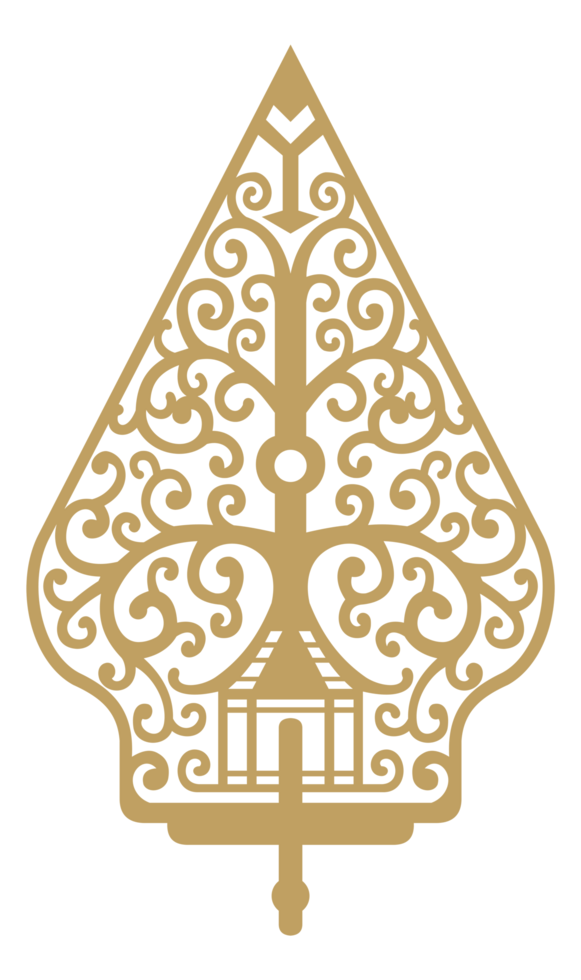
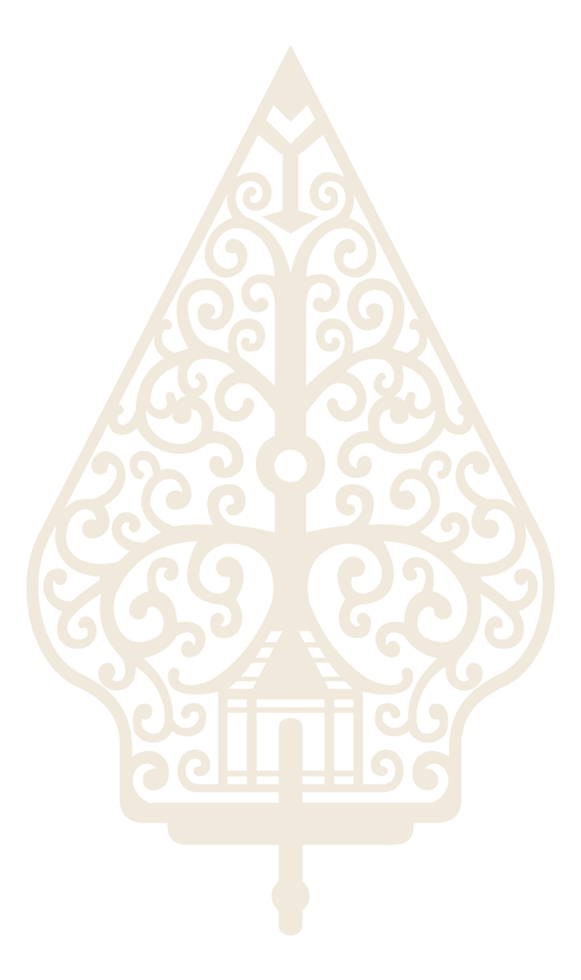
update tema 1 black

Changed region(s): [[0.031, 0.0306, 0.9604, 0.9796]]

diff --git a/src/components/Cover.vue b/src/components/Cover.vue
@@ -8,30 +8,30 @@ const openInvitation = () => {
 </script>
 <template>
   <v-container height="100dvh" class="relative p-0">
-    <div class="text-center h-full bg-[#ffead3]/70 p-5">
+    <div class="text-center h-full bg-[#35312c]/80 p-5">
       <p class="text-xl mb-3 text-dark animate__animated animate__zoomIn pt-[5vh]">
         The Wedding of
       </p>
       <h1
-        class="text-4xl text-gray-600 animate__animated animate__zoomIn animate__delay-1s"
+        class="text-4xl text-white-600 animate__animated animate__zoomIn animate__delay-1s"
       >
         {{ props.data?.mempelai.pria.nama_panggilan }}
       </h1>
 
       <h2
-        class="text-3xl mt-2 text-gray-600 animate__animated animate__zoomIn animate__delay-1s"
+        class="text-3xl mt-2 text-white-600 animate__animated animate__zoomIn animate__delay-1s"
       >
         &
       </h2>
       <h1
-        class="text-4xl text-gray-600 animate__animated animate__zoomIn animate__delay-1s"
+        class="text-4xl text-white-600 animate__animated animate__zoomIn animate__delay-1s"
       >
         {{ props.data?.mempelai.wanita.nama_panggilan }}
       </h1>
 
       <div class="flex justify-center mt-5">
         <img
-          src="/public/img/wayang-white.png"
+          src="/public/img/wayang.png"
           alt=""
           class="md:w-[150px] w-[100px] animate__animated animate__zoomIn animate__delay-2s"
         />
@@ -47,9 +47,7 @@ const openInvitation = () => {
           Bapak/Ibu/Saudara/i
         </p>
         <v-card
-          variant="tonal"
-          color="dark"
-          class="animate__animated animate__zoomIn animate__delay-2s"
+          class="animate__animated animate__zoomIn animate__delay-2s bg-black/40"
           shadow
         >
           <v-card-text class="text-center">
@@ -69,7 +67,7 @@ const openInvitation = () => {
           <v-btn
             rounded
             @click="openInvitation"
-            color="#C1A162"
+            color="primary"
             size="small"
             prepend-icon="mdi-email-open-heart-outline"
           >

diff --git a/src/components/Menus.vue b/src/components/Menus.vue
@@ -65,7 +65,7 @@ const autoplayMenu = () => {
       if (index >= menus_count) {
         autoplay_menu.value = false;
         selected.value = "Pembukaan";
-        clearInterval(intervalId)
+        clearInterval(intervalId);
         emit("selected", selected.value);
         return;
       }
@@ -110,7 +110,7 @@ onMounted(() => {
   <div class="absolute bottom-[80px] right-7 z-[9999] flex flex-col">
     <v-btn
       size="x-small"
-      color="#C1A162"
+      color="primary"
       :icon="!autoplay_menu ? 'mdi-play-outline' : 'mdi-pause'"
       @click="
         autoplay_menu = !autoplay_menu;
@@ -120,7 +120,7 @@ onMounted(() => {
     />
     <v-btn
       size="x-small"
-      color="#C1A162"
+      color="primary"
       :icon="!autoplay_music ? 'mdi-volume-off' : 'mdi-volume-high'"
       @click="playMusic()"
     />
@@ -129,13 +129,11 @@ onMounted(() => {
     <v-tabs
       v-model="selected"
       align-tabs="center"
-      bg-color="#C1A162"
-      color="secondary"
       slider-color="secondary"
       height="50"
       stacked
       center-active
-      class="rounded-lg"
+      class="rounded-lg bg-black/80"
       @update:model-value="selectedMenu()"
     >
       <v-tab
@@ -143,10 +141,14 @@ onMounted(() => {
         v-for="item in menus"
         :value="item.title"
         class="p-0"
-        :class="item.title == selected ? 'bg-[#8c7444]' : null"
+        :class="item.title == selected ? 'bg-primary' : 'text-primary'"
       >
-        <v-icon :icon="item.icon" size="20" />
-        <p class="text-[10px] text-white">
+        <v-icon
+          :icon="item.icon"
+          size="20"
+          :class="item.title == selected ? 'bg-primary' : ''"
+        />
+        <p class="text-[10px]" :class="item.title == selected ? 'text-black' : ''">
           {{ item.title }}
         </p>
       </v-tab>

diff --git a/src/main.js b/src/main.js
@@ -2,7 +2,7 @@ import { createApp } from "vue";
 import App from "./App.vue";
 import router from "./router";
 import Countdown from "vue3-flip-countdown";
-import 'animate.css';
+import "animate.css";
 
 // Vuetify imports
 import "vuetify/styles";
@@ -21,15 +21,17 @@ export default createVuetify({
 const myCustomLightTheme = {
   dark: false,
   colors: {
-    primary: "#D4AF37", // Emas klasik (rich gold)
-    "primary-darken-1": "#B8860B", // Bronze / deep gold
-    secondary: "#F5F5F5", // Putih lembut (soft white)
-    "secondary-darken-1": "#E0E0E0", // Abu terang (untuk batas / bayangan)
-    surface: "#FAF9F6", // Ivory / putih keemasan
-    error: "#C62828", // Merah tegas, tetap terlihat di background putih
-    info: "#A67C00", // Info dengan nuansa gold gelap
-    success: "#4CAF50", // Hijau klasik untuk konfirmasi
-    warning: "#FFB300", // Kuning emas terang untuk peringatan
+    primary: "#C3C5C5", // Biru lembut sebagai warna utama
+    "primary-darken-1": "#42A5F5", // Biru terang untuk hover/aksen
+
+    secondary: "#1E1E1E", // Hitam lembut / abu gelap (background utama)
+    "secondary-darken-1": "#121212", // Background paling gelap
+
+    surface: "#2C2C2C", // Untuk permukaan elemen seperti kartu/modal
+    error: "#EF5350", // Merah terang untuk peringatan
+    info: "#29B6F6", // Biru terang untuk info
+    success: "#66BB6A", // Hijau muda untuk sukses/konfirmasi
+    warning: "#FFCA28", // Kuning lembut untuk peringatan
   },
 };
 

diff --git a/src/components/Acara.vue b/src/components/Acara.vue
@@ -34,7 +34,7 @@ const saveCalendar = () => {
 <template>
   <v-container height="100dvh" class="relative p-5">
     <div
-      class="flex items-center justify-center h-[87dvh] bg-white/80 rounded-lg"
+      class="flex items-center justify-center h-[87dvh] bg-black/80 rounded-lg"
     >
       <div class="text-center">
         <div class="animate__animated animate__zoomIn animate__delay-1s">
@@ -53,8 +53,8 @@ const saveCalendar = () => {
         <vue3-flip-countdown
           countdownSize=".8rem"
           labelSize=".7rem"
-          mainColor="#C3A568"
-          labelColor="#C3A568"
+          mainColor="white"
+          labelColor="white"
           :flipAnimation="false"
           :labels="{
             days: 'Hari',
@@ -80,7 +80,7 @@ const saveCalendar = () => {
           <p>{{ props.data?.acara?.resepsi?.tempat }}</p>
 
           <v-btn
-            color="#C1A162"
+            color="primary"
             size="small"
             prepend-icon="mdi-calendar"
             @click="saveCalendar"

diff --git a/src/components/Lokasi.vue b/src/components/Lokasi.vue
@@ -4,7 +4,7 @@ const props = defineProps({ data: Object });
 <template>
   <v-container height="100dvh" class="relative p-5">
     <div
-      class="flex items-center justify-center h-[87dvh] bg-white/80 rounded-lg"
+      class="flex items-center justify-center h-[87dvh] bg-black/80 rounded-lg"
     >
       <div
         class="text-center animate__animated animate__zoomIn animate__delay-1s"
@@ -20,7 +20,7 @@ const props = defineProps({ data: Object });
           class="mt-5"
           append-icon="mdi-bicycle"
           prepend-icon="mdi-bicycle"
-          color="#C1A162"
+          color="primary"
           size="small"
         >
           Kunjungi Sekarang

diff --git a/src/components/Quotes.vue b/src/components/Quotes.vue
@@ -3,7 +3,7 @@ const props = defineProps({ quote: Object });
 </script>
 <template>
   <v-container height="100dvh" class="relative p-5">
-    <div class="flex items-center justify-center h-[87dvh] bg-white/80 rounded-lg px-5">
+    <div class="flex items-center justify-center h-[87dvh] bg-black/80 rounded-lg px-5">
       <div class="text-center animate__animated animate__zoomIn animate__delay-1s">
         <div class="flex justify-center mb-3">
           <img src="/public/img/wayang.png" alt="" class="w-[60px]" />

diff --git a/src/components/Closing.vue b/src/components/Closing.vue
@@ -4,7 +4,7 @@ const props = defineProps({ caption: Object });
 <template>
   <v-container height="100dvh" class="relative p-5">
     <div
-      class="flex items-center justify-center bg-white/80 h-[87dvh] rounded-lg p-5 relative overflow-hidden"
+      class="flex items-center justify-center bg-black/80 h-[87dvh] rounded-lg p-5 relative overflow-hidden"
     >
       <div
         class="text-center animate__animated animate__zoomIn animate__delay-1s mb-10"

diff --git a/src/Home.vue b/src/Home.vue
@@ -54,7 +54,7 @@ onBeforeMount(async () => {
 </script>
 
 <template>
-  <v-app class="bg-gradient-to-r from-orange-200 to-orange-300">
+  <v-app class="bg-gradient-to-r from-gray-900 to-gray-700">
     <div class="flex flex-col justify-center items-center w-full h-[100dvh]" v-if="loading">
       <div class="flex justify-center animate__animated animate__pulse animate__infinite">
         <img src="/public/favicon.png" alt="Āmantrana" class="w-14" />

diff --git a/src/components/Opening.vue b/src/components/Opening.vue
@@ -7,7 +7,7 @@ const deadline = ref(props.data?.acara?.resepsi?.tanggal);
 </script>
 <template>
   <v-container height="100dvh" class="relative p-5">
-    <div class="bg-white/80 h-[87dvh] rounded-lg px-5">
+    <div class="bg-black/80 h-[87dvh] rounded-lg px-5">
       <div class="text-center pt-5 animate__animated animate__zoomIn animate__delay-1s">
         <p
           v-html="props.caption?.islam?.pembuka[1]"

diff --git a/src/components/Galeri.vue b/src/components/Galeri.vue
@@ -4,7 +4,7 @@ const props = defineProps({ data: Object });
 </script>
 <template>
   <v-container height="100dvh" class="p-5">
-    <div class="relative h-[87dvh] bg-white/80 rounded-lg overflow-auto p-5">
+    <div class="relative h-[87dvh] bg-black/80 rounded-lg overflow-auto p-5">
       <v-row>
         <template v-for="(image, imgIdx) in props.data?.galeri" :key="imgIdx">
           <v-col :cols="image.cols">

diff --git a/src/components/Mempelai.vue b/src/components/Mempelai.vue
@@ -4,7 +4,7 @@ const props = defineProps({ data: Object });
 <template>
   <v-container height="100dvh" class="relative p-5">
     <div
-      class="flex items-center justify-center h-[87dvh] bg-white/80 rounded-lg"
+      class="flex items-center justify-center h-[87dvh] bg-black/80 rounded-lg"
     >
       <div class="text-center">
         <div class="animate__animated animate__zoomIn animate__delay-1s">

diff --git a/src/components/RSVP.vue b/src/components/RSVP.vue
@@ -125,7 +125,7 @@ onMounted(() => {
   </v-dialog>
   <v-container height="100dvh" class="relative p-5">
     <div
-      class="bg-white/80 h-[87dvh] rounded-lg p-5 animate__animated animate__fadeInUp"
+      class="bg-black/80 h-[87dvh] rounded-lg p-5 animate__animated animate__fadeInUp"
     >
       <div class="h-full overflow-hidden">
         <h3
